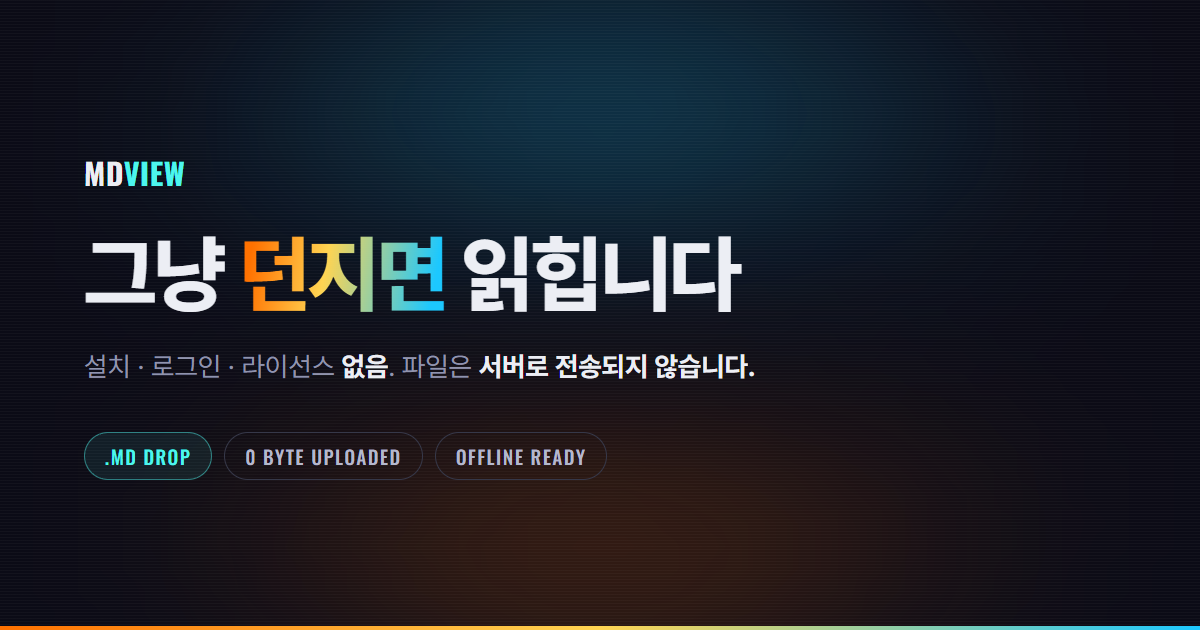
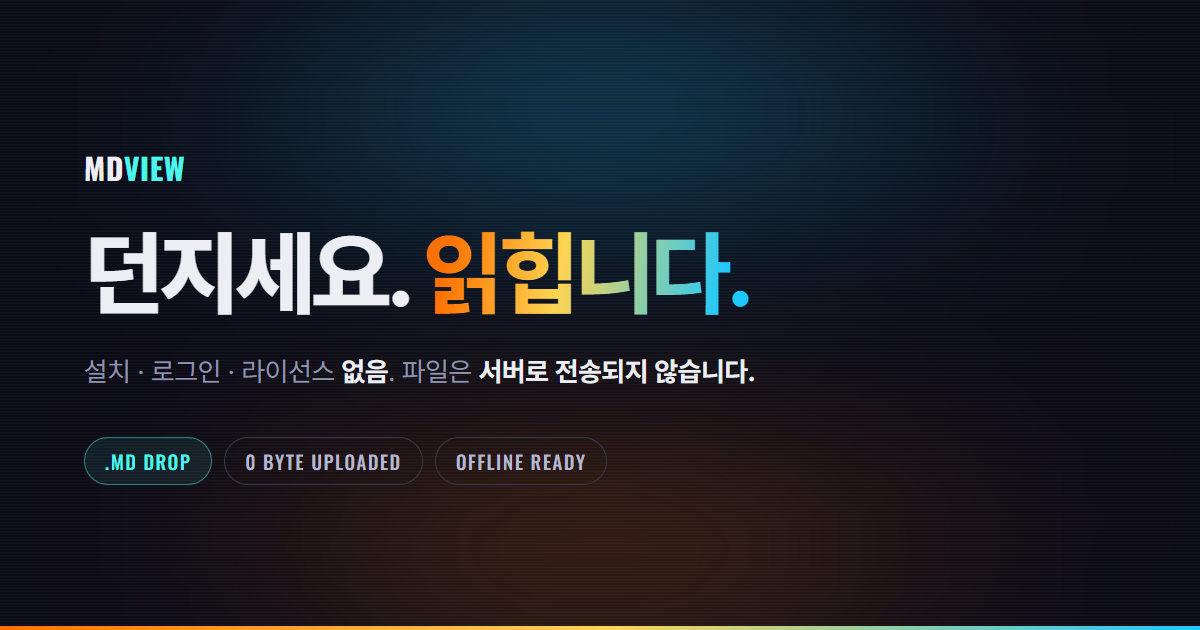
Hero copy: 던지세요. 읽힙니다.
Two beats, imperative then result — the Korean hero finally mirrors
the English one (Drop it. Read it.). og.png and the narrow install
screenshot are re-rendered with the new line; the SW cache bumps to
v6 so the cache-first images actually refresh.

diff --git a/public/sw.js b/public/sw.js
@@ -4,7 +4,10 @@
    changes them at the same URL, so they always go to the network
    first and fall back to the cache only when offline. Bump CACHE
    whenever the hand-made images in /public change. */
-const CACHE = 'mdview-v5';
+/* v6: og.png and shot-narrow.png re-rendered with the new hero line —
+   they sit in the immutable cache-first set, so the name must change
+   for anyone to see the new pixels. */
+const CACHE = 'mdview-v6';
 const SHELL = ['/', '/en/', '/install/', '/en/install/'];
 
 /* Content-addressed or hand-versioned: safe to serve from cache. */

diff --git a/index.html b/index.html
@@ -205,9 +205,8 @@
       <section class="hero" id="hero">
         <p class="hero__eyebrow">MARKDOWN READER</p>
         <h1 class="hero__title">
-          <span class="hero__line">그냥</span>
-          <span class="hero__line hero__line--accent">던지면</span>
-          <span class="hero__line">읽힙니다</span>
+          <span class="hero__line">던지세요.</span>
+          <span class="hero__line hero__line--accent">읽힙니다.</span>
         </h1>
         <p class="hero__sub">
           설치 · 로그인 · 라이선스 <b>없음</b>.<br />
